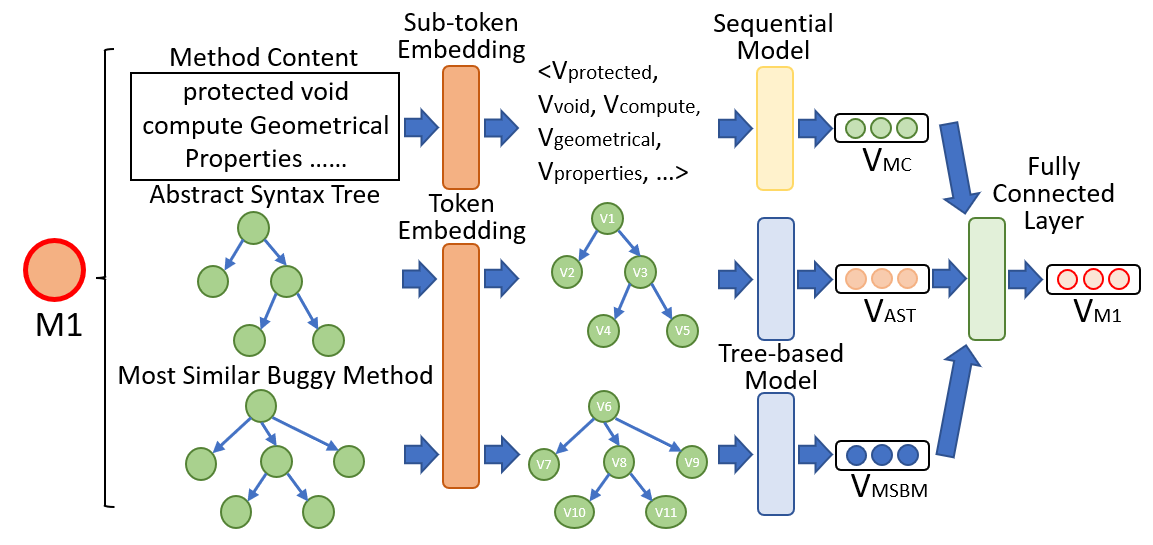
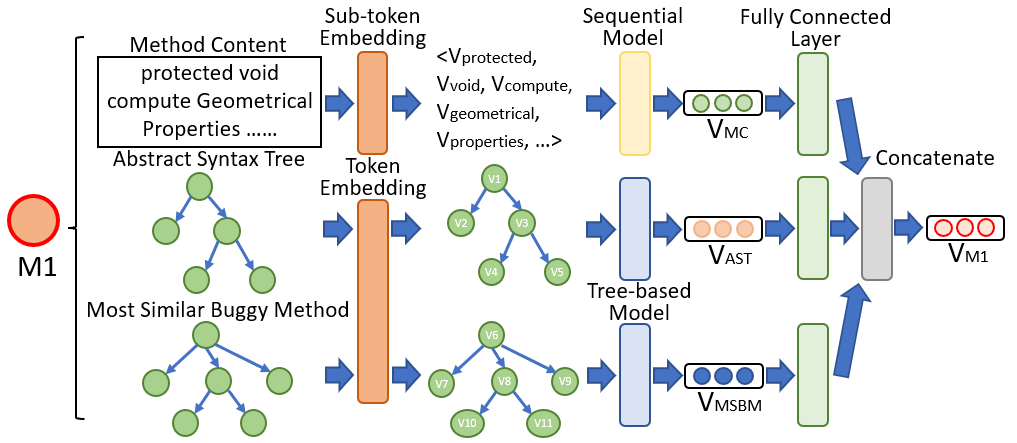
update

diff --git a/sections/approach_step2-new.tex b/sections/approach_step2-new.tex
@@ -18,7 +18,7 @@ From step 1, for each node that represent a method $M$, there are extracted sequ
 
 1) {\em \underline{The method's content}}: \tool uses the token embedding techniques to learn the representation vector for each token in the sequence and then replace each sub-token with the embedding vector generated from the techniques. The GloVe \cite{pennington2014glove} is a good word embedding technique that can catch the meaning of the sub-token well, so \tool uses GloVe as the token embedding technique. After the vectorization, \tool has a sequence of vector $Seq^{pe}_m$ and then uses a sequential model to learn the summarized vector that can represent the method's content.  GRU layer \cite{cho2014learning} is a type of RNN layer that is efficient on learning and summarizing the information in the sequences. \tool uses GRU layer here to learn the embedding vector $vec_{mc}$ for the method content.
 
-2) {\em \underline{The method's structure}}: Similarly, \tool firstly uses the GloVe to vectorize the AST just as in 1) and then uses a tree-based model to learn the method's structure. In the most recent study, TreeCaps \cite{bui2021treecaps} proves that it is good at learning the tree structure information. To learn the structure information well as a node feature, \tool uses TreeCaps to learn the embedding vector $vec^{ms}$.
+2) {\em \underline{The method's structure}}: Similarly, \tool firstly uses the GloVe to vectorize the AST just as in 1) and then uses a tree-based model to learn the method's structure. In the most recent study, TreeCaps \cite{bui2021treecaps} proves that it is good at learning the tree structure information. To learn the structure information well as a node feature, \tool uses TreeCaps as the tree-based model to learn the embedding vector $vec^{ms}$.
 
 3) {\em \underline{Most similar buggy method}}: As for the similar buggy method, \tool doing the same process as the method structure feature by using the GloVe and TreeCaps to learn the embedding vector $vec^{msbm}$.
 
@@ -31,16 +31,13 @@ From step 1, for each node that represent a method $M$, there are extracted sequ
 	\label{statement-level-feature-learning}
 \end{figure}
 
-From step 1, for each node that represent a statement $S$, there are extracted sequence of sub-tokens $Seq^p_m$ as the method content, generated AST $Tree_m$, and the generated AST for the most similar buggy method $M_b$ as the node features. To learn the feature representation, we follow these steps.
+From step 1, for each node that represent a statement $S$, there are extracted code coverage information vector, generated AST subtree $Tree_s$, and the generated variable sequence as the node features. To learn the feature representation, we follow these steps.
 
+1) {\em \underline{Code Coverage}}: \tool does not make any changes and directly regard $V_{Cov} = <c_1, c_2, ...,
+c_K, r_1, r_2, ..., r_K>$ that is extracted from step 1 as the embedding vector $vec_{cc}$ for the code coverage.  
 
+2) {\em \underline{The statement's structure}}: \tool does the same process as the method's structure feature. \tool firstly using the GloVe to vectorize the AST and then using tree-based model TreeCaps to learn the embedding vector $vec^{ss}$. 
 
-\begin{itemize}
-	\item Code Coverage Information: \tool has the code coverage information $C = <c_1, c_2, ..., c_i>$ from last step. In this step, \tool does not make any changes and directly regard $C$ as the embedding vector $vec_{cci}$ for the code coverage information.
-	
-	\item Statement Structure: \tool has the generated sub-AST $Tree_s$ from the last step. In this step, \tool does a similar process as the method-level by firstly using the GloVe to vectorize the AST and then using a deep learning-based model TreeCaps to learn the embedding vector $vec^{ss}$.
-	
-	\item Variables: \tool has the variable sequence with variable types $Seq_s$ from the last step. In this step, \tool uses the GloVe to learn the token (here can be the variable name and variable type) embedding and then replace each token with the embedding vector generated from GloVe. And then, \tool uses one GRU layer to learn the embedding vector $vec_{v}$ for the whole variable information sequence $Seq_s$
-\end{itemize}
+3) {\em \underline{List of variables}}: As for the similar buggy method, \tool doing the same process as the method structure feature by using the GloVe and TreeCaps to learn the embedding vector $vec^{msbm}$.
 
-After having the six embedding vectors mentioned above, \tool uses six fully connected layers to standardize each embedding vector's length to $l/3$ (Here l/3 is an integer). And then, for both method-level and statement-level, \tool concatenate three feature embedding vector into one vector $vec_{m}$ or $vec_{s}$ for the method-level or statement-level with the length of $l$. In this case, for both method-level and statement-level, \tool all has a combined graph $G_m$ or $G_s$ with the node embedding vector $vec_{m}$ or $vec_{s}$. It is the input for the next step.
+After having the six embedding vectors mentioned above, \tool uses six fully connected layers to standardize each embedding vector's length to $l/3$ (Here l/3 is an integer). And then, for both method-level and statement-level, \tool concatenate three feature embedding vector into one vector $vec_{m}$ or $vec_{s}$ for the method-level or statement-level with the length of $l$. In this case, for both method-level and statement-level, \tool all has the graph $G_m$ or $G_s$ with the node embedding vector $vec_{m}$ or $vec_{s}$. It is the input for the next step.
